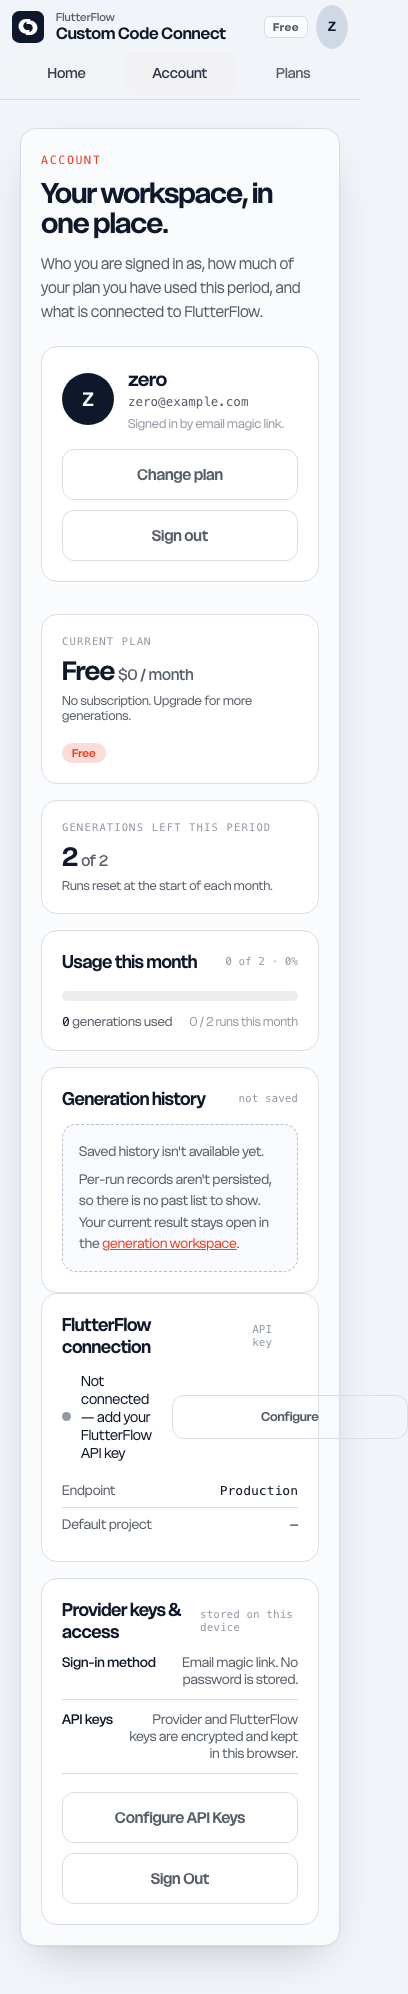
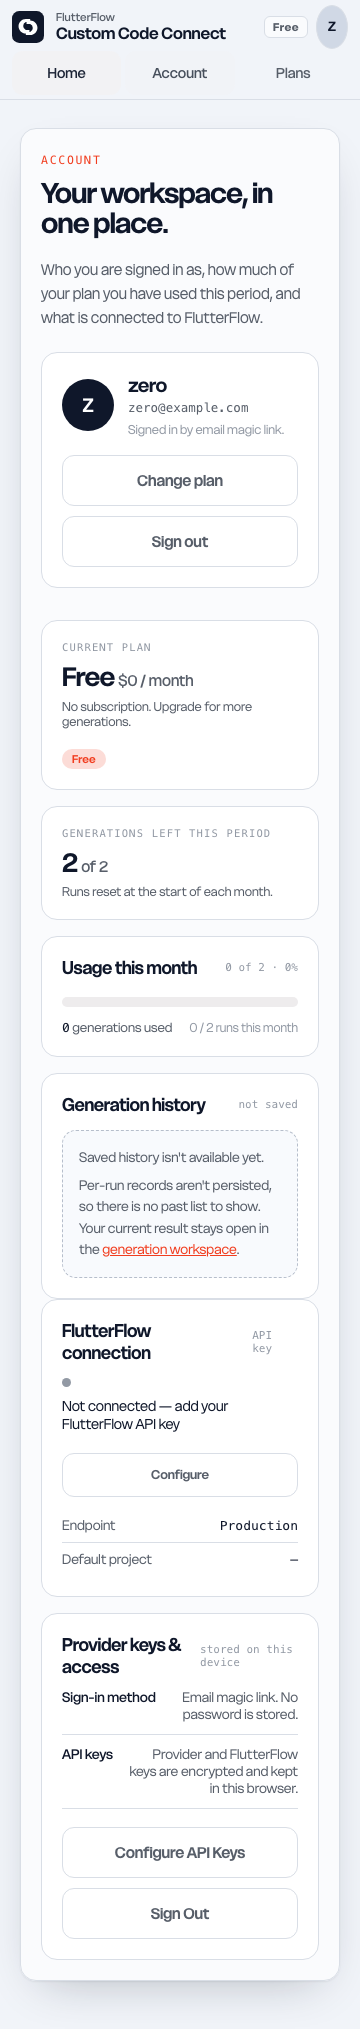
STU-383: fix duplicate h1, cover the connected card branch, and gate the screenshot test on layout
Finding 1 (BLOCKING): the account view title was a second <h1>, breaking the
smoke spec's page.locator('h1') strict-mode assertion and turning CI red.
The account view's title is now an <h2> so the document keeps a single
top-level heading and the existing smoke selector resolves to one element
(duplicate h1 was the defect, not the assertion; verified 1/6 FAIL -> 6/6 PASS).

Finding 2: the connected branch of the FlutterFlow connection card was never
exercised (every test ran keyless). Added a test that seeds real encrypted-at-
rest FlutterFlow credentials (AES-GCM under a session-migrated JWK, decrypted
through the app's genuine getApiKey path) and asserts 'Connected to
FlutterFlow', the ok dot, the default-project row and the endpoint label.
Falsified: breaking the connected branch fails the test; restoring passes.

Finding 3: the screenshot test captured PNGs without asserting anything,
so any visual regression passed unnamed. Relabelled it explicitly as a
human-review artifact (pixels not compared) and added a genuine falsifiable
layout gate (no horizontal overflow, card inside the viewport, non-empty).
That gate caught a real pre-existing mobile overflow (the connection row's
Configure button pushed past 360px by the long status text), which is fixed
with a mobile-only flex-wrap. Screenshots regenerated to reflect the fix.
Falsified with an injected 8000px wide element (FAIL at 8389px) then restore.
[…]

diff --git a/e2e/stu383-account-overview.spec.js b/e2e/stu383-account-overview.spec.js
@@ -273,9 +273,87 @@ test.describe("STU-383 account overview", () => {
     );
   });
 
-  test("screenshots for desktop and mobile reference comparisons", async ({ page }) => {
-    // Captures the surfaces the criteria name — long email, zero/max usage and
-    // an unresolved subscription — at 1440x900 and 360x800 for reference diffing.
+  /**
+   * Seeds real stored FlutterFlow credentials into the same encrypted-at-rest
+   * format the app writes (AES-256-GCM under a session-migrated JWK) so the
+   * connected branch of the account connection card is exercised through the
+   * app's genuine decryption + render path, not a mocked DOM.
+   */
+  async function makeStoredCredentials() {
+    const key = await crypto.subtle.generateKey(
+      { name: "AES-GCM", length: 256 },
+      true,
+      ["encrypt", "decrypt"],
+    );
+    const jwk = await crypto.subtle.exportKey("jwk", key);
+    const encrypt = async (plaintext) => {
+      const iv = crypto.getRandomValues(new Uint8Array(12));
+      const data = new TextEncoder().encode(plaintext);
+      const buf = await crypto.subtle.encrypt({ name: "AES-GCM", iv }, key, data);
+      const combined = new Uint8Array(12 + buf.byteLength);
+      combined.set(iv);
+      combined.set(new Uint8Array(buf), 12);
+      return Buffer.from(combined).toString("base64");
+    };
+    return {
+      jwk: JSON.stringify(jwk),
+      apiKey: await encrypt("ff-live-key-123"),
+      projectId: await encrypt("demo-proj-9f2a"),
+    };
+  }
+
+  test("connection card renders the connected state from stored FlutterFlow credentials", async ({ page }) => {
+    const creds = await makeStoredCredentials();
+    await seedSession(page);
+    await page.addInitScript(({ jwk, apiKey, projectId }) => {
+      sessionStorage.setItem("ccc_encryption_key", jwk);
+      localStorage.setItem("ccc_api_key_flutterflow", apiKey);
+      localStorage.setItem("ccc_api_key_flutterflow_project_id", projectId);
+    }, creds);
+    await applyDefaultRoutes(page, {
+      ...refreshOverride(),
+      [ENDPOINTS.identity]: identityWithUsage({ email: undefined, count: 1 }),
+      [ENDPOINTS.getSubscription]: freeSubscription(),
+    });
+    await page.goto("/");
+    await openAccount(page);
+
+    // Both a key and a project are stored: the card reads as fully connected.
+    await expect(page.locator("#acct-ff-status")).toHaveText("Connected to FlutterFlow");
+    await expect(page.locator("#acct-ff-dot")).toHaveClass(/ok/);
+    await expect(page.locator("#acct-ff-project")).toHaveText("demo-proj-9f2a");
+    await expect(page.locator("#acct-ff-endpoint")).toHaveText("Production");
+  });
+
+  test("capture account screenshots for human visual review (layout asserted, pixels not compared)", async ({ page }) => {
+    // Human-review artifact: produces the account surfaces the criteria name —
+    // long email, zero/max usage and an unresolved subscription — at 1440x900
+    // and 360x800 as committed PNGs for a person to eyeball. No pixel diff is
+    // run here, so the name says so. The one genuine render gate below fails on
+    // a broken layout: the surface must lay out inside the viewport with no
+    // horizontal overflow and a positively-sized account card.
+    const assertAccountLayout = async () => {
+      await expect(page.locator("#account-view")).toBeVisible();
+      const layout = await page.evaluate(() => {
+        const card = document.querySelector("#account-view .account-card");
+        const cardRect = card ? card.getBoundingClientRect() : null;
+        return {
+          docScrollWidth: document.documentElement.scrollWidth,
+          clientWidth: document.documentElement.clientWidth,
+          cardLeft: cardRect ? Math.round(cardRect.left) : null,
+          cardRight: cardRect ? Math.round(cardRect.right) : null,
+          cardHeight: cardRect ? Math.round(cardRect.height) : 0,
+        };
+      });
+      expect(layout.cardHeight, "account card must render non-empty").toBeGreaterThan(0);
+      expect(
+        layout.docScrollWidth,
+        "no horizontal overflow on the account view",
+      ).toBeLessThanOrEqual(layout.clientWidth);
+      expect(layout.cardRight, "account card must stay inside the viewport right edge")
+        .toBeLessThanOrEqual(layout.clientWidth);
+    };
+
     const scenarios = [
       {
         name: "professional-31-50-long-email",
@@ -304,6 +382,7 @@ test.describe("STU-383 account overview", () => {
         });
         await page.goto("/");
         await openAccount(page);
+        await assertAccountLayout();
         await page.screenshot({ path: `${outDir}/account-${s.name}-${viewport.name}.png`, fullPage: true });
       }
       // Unresolved subscription reference.
@@ -318,6 +397,7 @@ test.describe("STU-383 account overview", () => {
       await page.goto("/", { waitUntil: "domcontentloaded" });
       await openAccount(page);
       await expect(page.locator("#acct-plan-tier")).toHaveText("Plan unavailable");
+      await assertAccountLayout();
       await page.screenshot({ path: `${outDir}/account-unresolved-${viewport.name}.png`, fullPage: true });
     }
   });

diff --git a/index.html b/index.html
@@ -3045,6 +3045,11 @@
       /* Mobile compact */
       @media (max-width: 920px) {
         .acct-grid { grid-template-columns: 1fr; }
+        /* The connection row's Configure button is non-shrinking (flex: none);
+           on narrow screens the long status text pushes it past the viewport,
+           so drop it onto its own full-width line instead. */
+        .acct-conn-row { flex-wrap: wrap; }
+        .acct-conn-row .btn-action { flex: 1 1 100%; }
       }
       @media (max-width: 920px) {
         .hero { padding: 24px 16px 28px; }
@@ -3346,7 +3351,7 @@
       <div class="surface-card account-card" style="background:var(--surface-translucent);">
         <header class="acct-head">
           <p class="acct-eyebrow">Account</p>
-          <h1 class="acct-title">Your workspace, in one place.</h1>
+          <h2 class="acct-title">Your workspace, in one place.</h2>
           <p class="acct-lead">Who you are signed in as, how much of your plan you have used this period, and what is connected to FlutterFlow.</p>
         </header>
 
